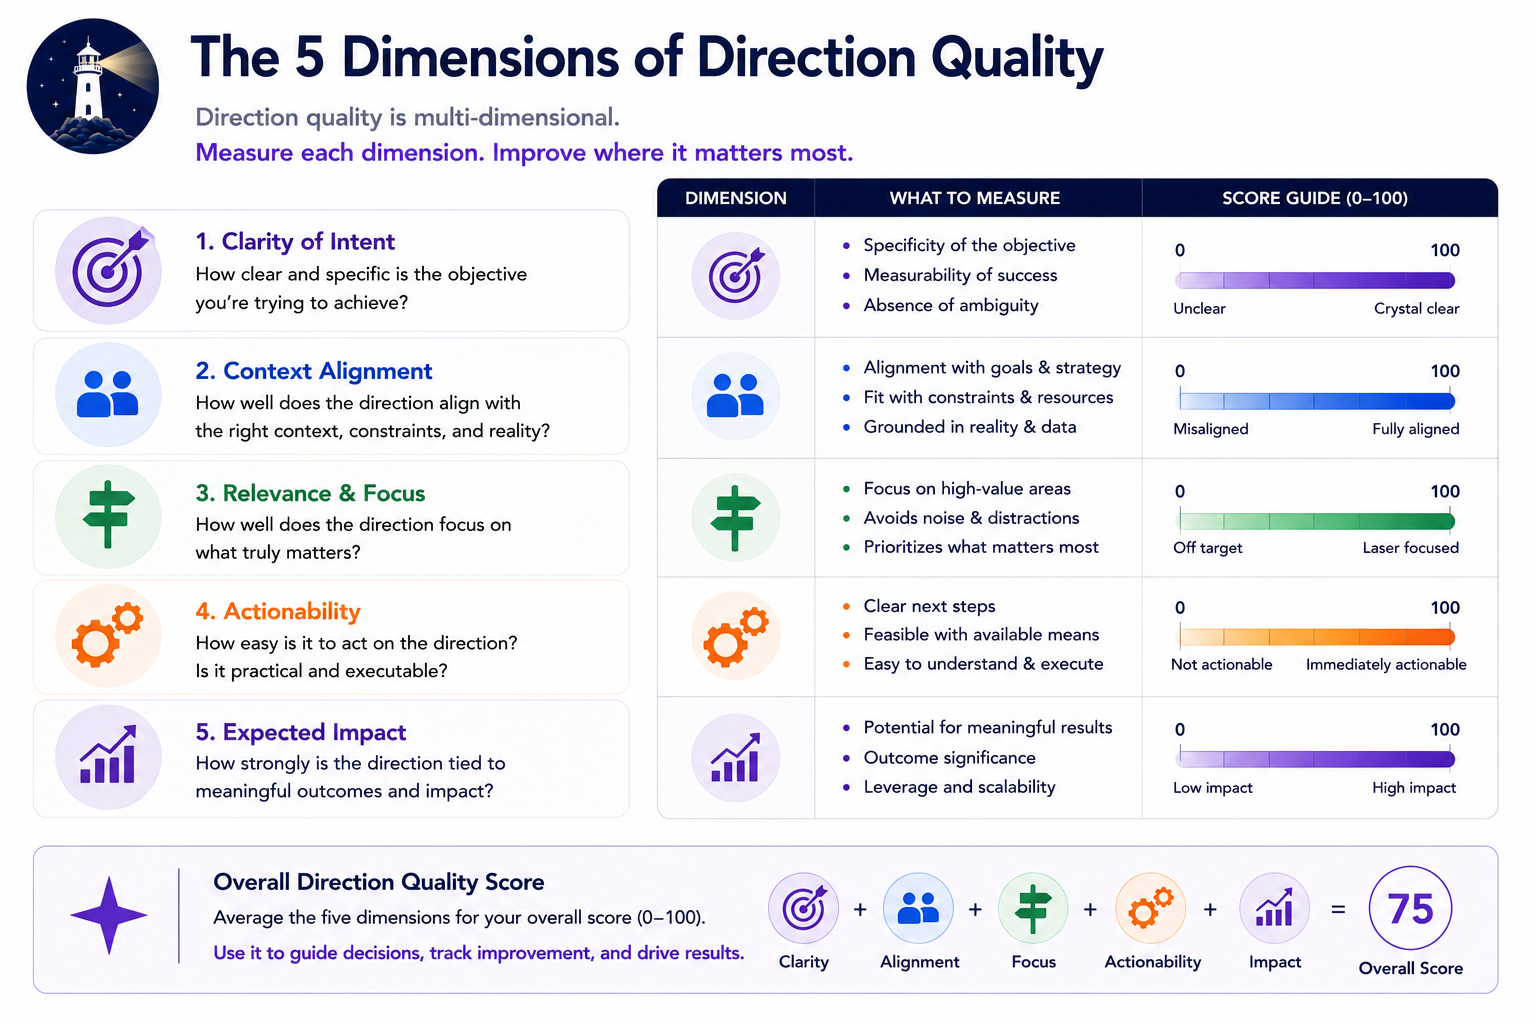
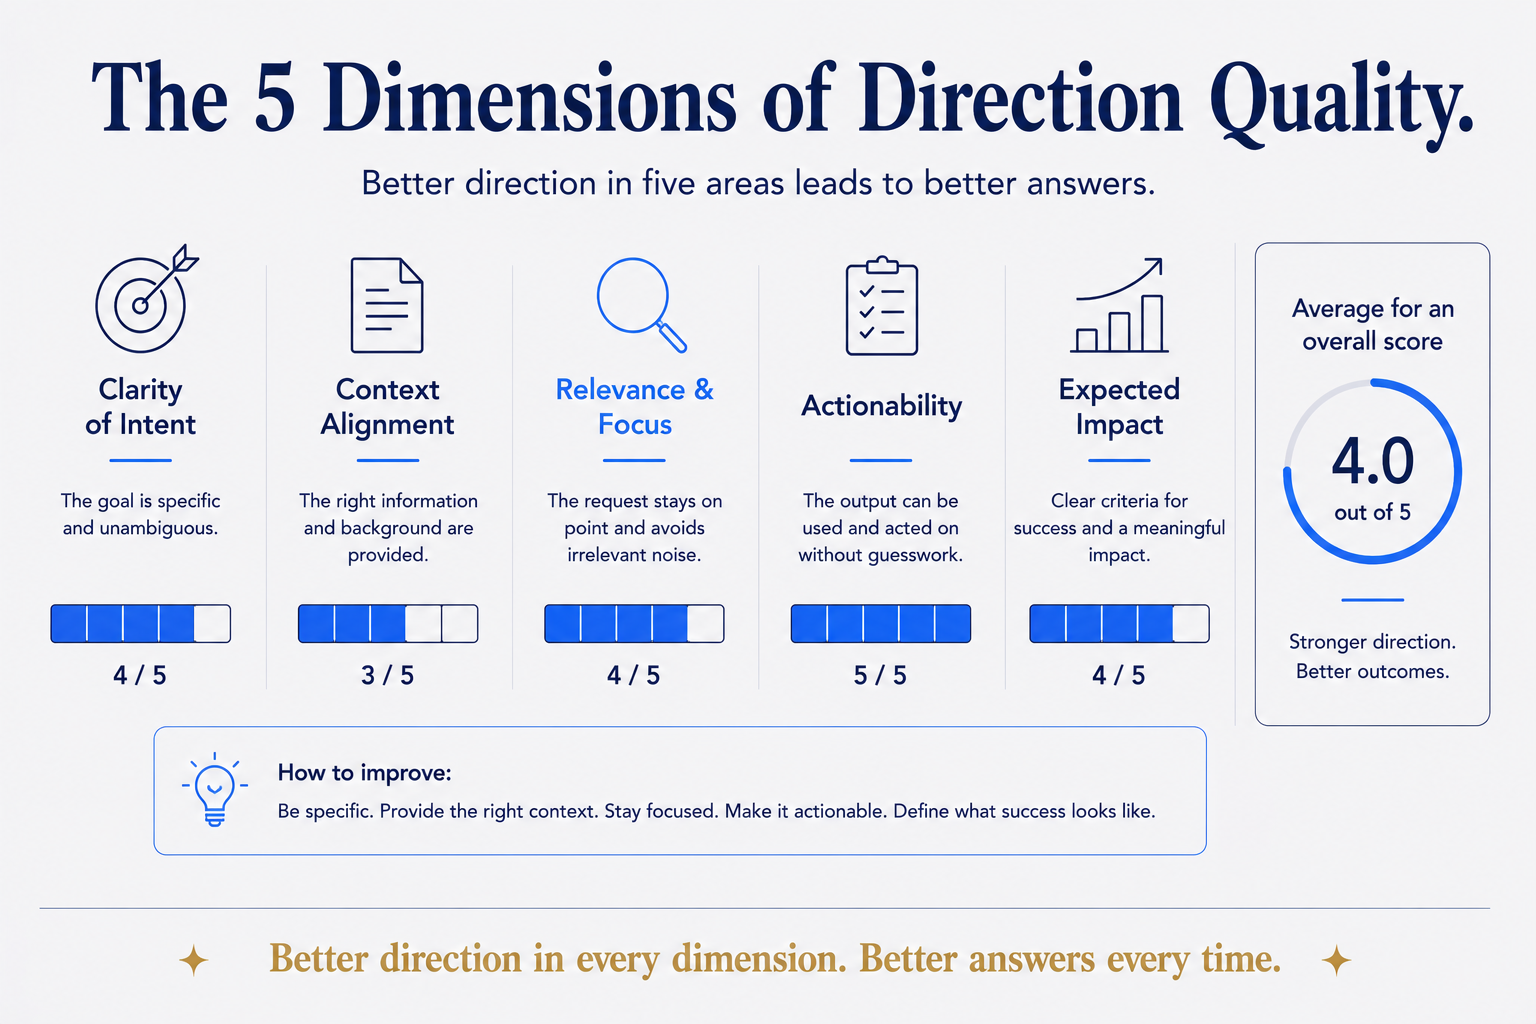
content: re-illustrate Stop Prompting, Start Directing (hero + 3 figures)
All images regenerated on-brand (ADR-075) and rewired:

- hero: the new Prompter-vs-Director frame replaces the off-brand 2026-06-29
  legacy sheet (numbered panels, green/purple, photoreal lighthouse)
- fig -01: 5 Dimensions of Direction Quality, recoloured off green/purple
- fig -02: "The shape everyone draws" -> the shape-everyone-draws section
- fig -04: the leverage curve -> the tell-that-separates-signal section

Fixes: hero_image pointed at the legacy file while the real -hero.png was
being used as an inline figure; -02 and -04 were generated but unreferenced;
-03 arrived as ".pn.png" (the truncated-extension bug, second occurrence).

Dropped -03: on-brand and fine, but it redraws the hero's Prompter-vs-Director
contrast with bullets added — repetition, not reinforcement. Retired with the
legacy hero to images/sbm-unused/.

Rewrote briefs.md: was a work-list for a job now done; now records what's on
the page + the spec to regenerate from.

diff --git a/articles/stop-prompting-start-directing.html b/articles/stop-prompting-start-directing.html
@@ -12,13 +12,13 @@
 <meta property="og:type" content="article"/>
 <meta property="og:url" content="https://structurebeatsmagic.com/articles/stop-prompting-start-directing.html"/>
 <meta property="og:site_name" content="Structure Beats Magic"/>
-<meta property="og:image" content="https://structurebeatsmagic.com/assets/stop-prompting-start-directing.png"/>
+<meta property="og:image" content="https://structurebeatsmagic.com/assets/stop-prompting-start-directing-hero.png"/>
 <meta property="article:author" content="Jaco van der Laan"/>
 <meta property="article:published_time" content="2026-06-29"/>
 <meta name="twitter:card" content="summary_large_image"/>
 <meta name="twitter:title" content="Stop Prompting, Start Directing: Claude for Your Vault"/>
 <meta name="twitter:description" content="I read 120 &#x27;AI tips&#x27; infographics so you don&#x27;t have to. The good ones all say the same thing — and it isn&#x27;t a prompt trick."/>
-<meta name="twitter:image" content="https://structurebeatsmagic.com/assets/stop-prompting-start-directing.png"/>
+<meta name="twitter:image" content="https://structurebeatsmagic.com/assets/stop-prompting-start-directing-hero.png"/>
 <link rel="icon" type="image/svg+xml" href="../assets/favicon.svg"/>
 <link rel="icon" type="image/png" sizes="32x32" href="../assets/favicon-32.png"/>
 <link rel="icon" type="image/png" sizes="16x16" href="../assets/favicon-16.png"/>
@@ -30,7 +30,7 @@
   "@type": "Article",
   "headline": "Stop Prompting, Start Directing: Claude for Your Vault",
   "description": "I read 120 'AI tips' infographics so you don't have to. The good ones all say the same thing — and it isn't a prompt trick.",
-  "image": "https://structurebeatsmagic.com/assets/stop-prompting-start-directing.png",
+  "image": "https://structurebeatsmagic.com/assets/stop-prompting-start-directing-hero.png",
   "author": {
     "@type": "Person",
     "name": "Jaco van der Laan",
@@ -74,7 +74,7 @@ gtag('config', 'G-P7W9B34R1Z');
   <h1>Stop Prompting, Start Directing: Claude for Your Vault</h1>
   <p class="subtitle">I read 120 &#x27;AI tips&#x27; infographics so you don&#x27;t have to. The good ones all say the same thing — and it isn&#x27;t a prompt trick.</p>
   <div class="byline">By Jaco van der Laan · 2026-06-29</div>
-  <figure class="article-hero"><img src="../assets/stop-prompting-start-directing.png" alt="Stop Prompting, Start Directing: Claude for Your Vault" loading="eager"/><figcaption>Stop prompting, start directing — from one-off questions to repeatable, reliable, scalable outcomes. Define the outcome, give context, set constraints, the process and the criteria; the answer follows.</figcaption></figure>
+  <figure class="article-hero"><img src="../assets/stop-prompting-start-directing-hero.png" alt="Stop Prompting, Start Directing: Claude for Your Vault" loading="eager"/><figcaption>Same model, two ways of using it. The prompter fires a one-off question and gets a lucky, inconsistent answer — nothing to build on. The director gives the model a structure first — outcome, context, constraints, process, validation — and gets a result that repeats. The model isn&#x27;t the variable; the direction around it is.</figcaption></figure>
   <article>
   <h2>The accidental survey</h2>
 <p>For a few months I saved every decent Claude/AI infographic that crossed my feed — the "50 tips," the "clone yourself in 48 hours," the "3 files that replace 500 prompts." About 120 of them, from a dozen different creators who mostly don't know each other.</p>
@@ -83,11 +83,11 @@ gtag('config', 'G-P7W9B34R1Z');
 <p><strong>Stop prompting. Start directing. Set up a system <em>before</em> the task.</strong></p>
 <p>That's it. That's the whole genre. "Infrastructure, not prompts." "Configure first." "Most people never leave Level 1." The value isn't a cleverer prompt — it's the structure you put around the model before you ask it anything. Which, if you've read anything else I write, is a sentence I've been saying for a while: <em>structure beats magic.</em> It was strange and a little vindicating to watch the entire creator scene arrive at it independently.</p>
 <p>So this isn't another tips list. It's the <strong>few things that survive when you read all the tips at once</strong> — aimed at one job: making AI genuinely useful on top of your own notes and knowledge.</p>
-<figure class="article-fig"><img src="../assets/stop-prompting-start-directing-hero.png" alt="The lever isn't more tools or a bigger model — it's better direction. Without it: confusion, wasted effort, inconsistent results. With it: clarity, focus, consistency, compounding impact. Your job isn't to prompt more; it's to direct better." loading="lazy"/><figcaption>The lever isn't more tools or a bigger model — it's better direction. Without it: confusion, wasted effort, inconsistent results. With it: clarity, focus, consistency, compounding impact. Your job isn't to prompt more; it's to direct better.</figcaption></figure>
 <h2>The shape everyone draws</h2>
 <p>Here's the part that convinced me. Five or six creators, different audiences, all drew the <em>same architecture</em> with different labels:</p>
 <ul><li>A <strong>context</strong> file — who you are, how you work. (They call it about-me, Context.md, "company brain.")</li><li><strong>Roles</strong> — specialised agents for specialised jobs.</li><li><strong>Skills</strong> — your repeatable processes, saved as commands.</li><li><strong>Memory</strong> — what the system learns and carries forward.</li><li>And the <strong>loop</strong> that connects them: context → roles → skills → memory → a smarter next session.</li></ul>
 <p>When that many people reinvent the same wheel, the wheel is real. And here's the quiet thing none of the posters say out loud: <em>that diagram is a consumer-grade sketch of what a properly structured vault already does.</em> The infographics sell you the MVP. The real version is just… more structure, applied with more discipline.</p>
+<figure class="article-fig"><img src="../assets/stop-prompting-start-directing-02.png" alt="The architecture six creators independently redrew, with different labels each time. A context file (what we're trying to achieve) feeds roles (who does what), which draw on skills (what capabilities are available), which write to memory (what we remember, so we don't repeat) — and the loop closes: each pass makes the next session smarter. Everyone reinvents the same wheel because the wheel is real." loading="lazy"/><figcaption>The architecture six creators independently redrew, with different labels each time. A context file (what we're trying to achieve) feeds roles (who does what), which draw on skills (what capabilities are available), which write to memory (what we remember, so we don't repeat) — and the loop closes: each pass makes the next session smarter. Everyone reinvents the same wheel because the wheel is real.</figcaption></figure>
 <h2>What actually matters — the durable few</h2>
 <p>If you want AI to be useful against your own knowledge, these are the moves that survived the cull. They're boring on purpose. Boring is what still works next year.</p>
 <p><strong>1. Write one file that tells the AI who you are.</strong> Your context, your preferences, how your notes are organised, how you want it to work. It loads every session, so you stop re-explaining yourself. This single file does more than any prompt.</p>
@@ -106,6 +106,7 @@ gtag('config', 'G-P7W9B34R1Z');
 <h2>The tell that separates signal from noise</h2>
 <p>One bonus, because it'll save you a hundred future infographics: the genre is full of things that <em>don't</em> survive scrutiny. Specific model names (stale in months). Time-and-outcome claims ("two hours a day," "any skill in thirty days," "replace a whole team"). Tool plugs dressed up as principles. Pure count-listicles.</p>
 <p>The keepers are always the <em>method</em> — the boring, durable, "set up the system first" stuff. The filler is always the <em>magic</em> — the screenshot of one impressive output, the number in the headline. Once you can tell them apart, you can read the whole genre in about a minute and keep the two ideas worth keeping.</p>
+<figure class="article-fig"><img src="../assets/stop-prompting-start-directing-04.png" alt="Why the boring stuff wins. Without direction — prompts, model swaps, tool plugs, one-off attempts — results spike early and then fade: good today, gone tomorrow. With direction — structured context, constraints, process and validation — the curve keeps climbing, because each pass builds on the last. That's the tell: method compounds, magic evaporates." loading="lazy"/><figcaption>Why the boring stuff wins. Without direction — prompts, model swaps, tool plugs, one-off attempts — results spike early and then fade: good today, gone tomorrow. With direction — structured context, constraints, process and validation — the curve keeps climbing, because each pass builds on the last. That's the tell: method compounds, magic evaporates.</figcaption></figure>
 <h2>The actual point</h2>
 <p>You don't need 120 tips. You need a structure your AI can stand on — a file that says who you are, a place that remembers, your notes within reach, your voice and your no-list written down, and the discipline to capture what you learn. Everything else is decoration.</p>
 <p>The creators selling "clone yourself with AI" aren't wrong. They're just describing the first room of a house you can actually build. Stop prompting. Start directing. The magic was never the model — it's the structure you give it.</p>